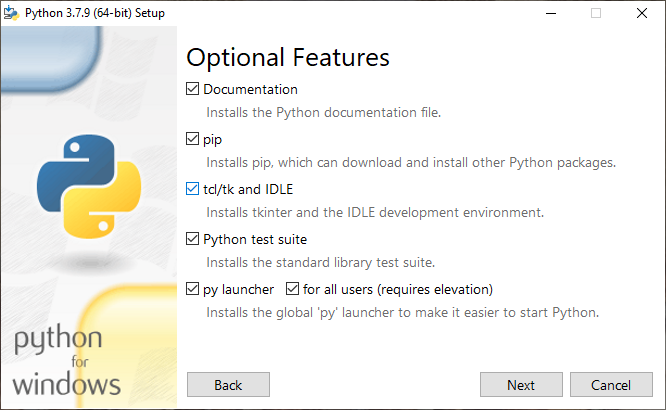
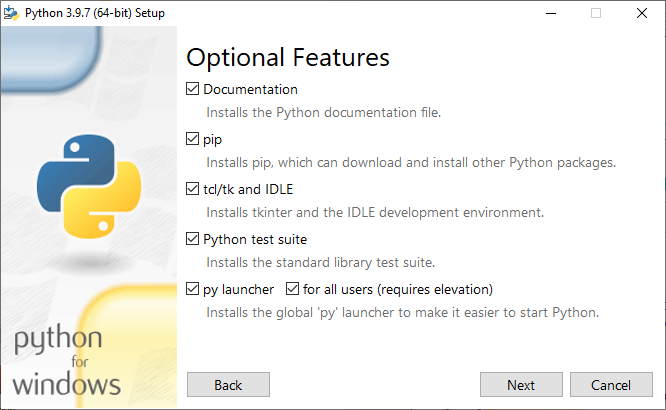
Releases 3.2.0 and 3.2.3, update python install version and CSS.

diff --git a/_static/neteye-banner.css b/_static/neteye-banner.css
@@ -79,11 +79,21 @@
     font-weight: 400;
     letter-spacing: .16px;
 }
-
 #breadcrumb-container .breadcrumb a,
-#breadcrumb-container .breadcrumb .active,
+#breadcrumb-container .breadcrumb .active {
+    color: #F4F4F4;
+}
 #breadcrumb-container .breadcrumb .breadcrumb-item::before {
     color: #F4F4F4;
+    content: ">";
+    position: relative;
+    top: -4px;
+}
+#breadcrumb-container .breadcrumb .breadcrumb-item:first-child::before {
+    content: none;
+}
+#breadcrumb-container .breadcrumb .breadcrumb-item:last-child {
+    visibility: hidden;
 }
 
 #search-banner .search-summary {

diff --git a/_static/neteye-document.css b/_static/neteye-document.css
@@ -71,8 +71,8 @@ dl, ol, ul {
 }
 
 /* Hide first h1 tag */
-#content .body > .section:first-child > h1:first-of-type {
-    margin-bottom: -48px;
+#content div.body section h1 {
+    margin-bottom: -25px;
     visibility: hidden;
     height: 0;
 }

diff --git a/conf.py b/conf.py
@@ -29,9 +29,9 @@ author = 'Charles Callaway'
 # built documents.
 #
 # The short X.Y version.
-version = u'3.1.6'
+version = u'3.2.3'
 # The full version, including alpha/beta/rc tags.
-release = u'3.1.6'
+release = u'3.2.3'
 
 
 # -- General configuration ---------------------------------------------------

diff --git a/getting_started/install.rst b/getting_started/install.rst
@@ -1,6 +1,6 @@
 :author: Charles Callaway
 :date: 06-12-2019
-:modified: 25-11-2020
+:modified: 09-11-2021
 :tags: install, python, pip
 :lang: en-US
 :translation: false
@@ -32,8 +32,8 @@ System Requirements
    Alyvix assumes that you have **one virtual or physical machine** exclusively dedicated to
    running Alyvix test cases.
 
-You should check that your designated machine meets the following requirements before you install
-Alyvix:
+You should check that your designated machine and the account on that machine meet the following
+requirements before you install Alyvix:
 
 .. admonition::  Requirements
    :class: warning
@@ -42,7 +42,28 @@ Alyvix:
    * OS: **Windows 64-bit** 10, Server 2012, 2016 or 2019
      (32-bit versions of Windows are :warn:`not` compatible with Alyvix)
    * Hardware:  2 CPUs and 4GB RAM
+   * Account with system administrator privileges
 
+|
+
+
+.. _installation_versions:
+
+========
+Versions
+========
+
++----------------+------------------------------+-------------------------------+
+| Alyvix Version | Python Version Required      | Install command               |
++----------------+------------------------------+-------------------------------+
+| Alyvix 3.2.3   | |python-download-link-397|   | ``pip install alyvix==3.2.3`` |
++----------------+------------------------------+-------------------------------+
+| Alyvix 3.2.0   | |python-download-link-397|   | ``pip install alyvix==3.2.0`` |
++----------------+------------------------------+-------------------------------+
+| Alyvix 3.1.6   | |python-download-link-379|   | ``pip install alyvix==3.1.6`` |
++----------------+------------------------------+-------------------------------+
+
+|
 
 
 .. _install_release_python_install:
@@ -60,7 +81,7 @@ Follow this procedure to install Python on your system:
 
 #. Start the installation:
 
-   1. Right-click on the downloaded executable and select **"Run as administrator"**
+   1. **Right-click** on the downloaded executable and select **"Run as administrator"**
    2. Check the box **"Add Python 3.7 to PATH"** at the bottom
    3. Choose the option **"Customize installation"**
 
@@ -76,7 +97,7 @@ Follow this procedure to install Python on your system:
       :alt: The second panel of the python installation process.
 
 #. On the third panel, make sure the advanced options are set as shown below.  Then under
-   **"Customize install location"**, insert the recommended location :file:`C:\\Python37\\`.
+   **"Customize install location"**, insert the recommended location :file:`C:\\Python39\\`.
    Finally, click on **"Install"**.  At this point Python will begin installing, typically
    requiring about 5 minutes.
 
@@ -88,10 +109,10 @@ Follow this procedure to install Python on your system:
    error message (if not, you will need to edit your ``Path`` environment variable):
 
    .. code-block:: doscon
-      :class: short-code-block
+      :class: tiny-code-block
 
       C:\> python --version
-      Python 3.7.9
+      Python 3.9.7
 
 
 
@@ -104,7 +125,7 @@ Installing Alyvix
 Alyvix itself is installed via *pip*, the official Python package manager.  *pip* will
 automatically detect that your system is running Python 3 and will install Alyvix 3,
 placing all executables in the directory
-:file:`C:\\Python37\\Lib\\site-packages\\alyvix\\`.
+:file:`C:\\Python39\\Lib\\site-packages\\alyvix\\`.
 
 The Alyvix installer is launched from the command prompt that, like the Python installer, must be
 **started in Adminstrator mode**.  Only this single step is required:
@@ -115,11 +136,18 @@ The Alyvix installer is launched from the command prompt that, like the Python i
    with all of its dependencies:
 
    .. code-block:: doscon
-      :class: short-code-block
+      :class: tiny-code-block
 
       C:\> pip install alyvix
 
-We recommend you place your Alyvix test cases in a separate data directory.
+   If necessary, you can install Alyvix through a proxy by adding a parameter:
+
+   .. code-block:: doscon
+      :class: long-code-block
+
+      C:\> pip install --proxy=https://[user:password@]proxyserver:port alyvix
+
+We recommend you place your Alyvix test cases in a separate data directory just for test cases.
 
 
 
@@ -142,13 +170,19 @@ Only two steps are needed to upgrade to the latest version:
 #. Upgrade Alyvix with *pip*
 
    * Start a Command Prompt **in administrator mode**
-   * Run the following command to download and upgrade to the latest Alyvix master release along
-     with all of its dependencies:
+   * Follow the case below that corresponds to your situation in order to download and upgrade
+     to the latest Alyvix master release along with all of its dependencies:
 
-     .. code-block:: doscon
-        :class: short-code-block
+     * If you have Python 3.7.9 installed, uninstall it, then manually remove its
+       containing folder (e.g., ``C:\Python37\``) and re-install Alyvix with *pip* as shown in
+       the section :ref:`Installing Alyvix <install_release_alyvix_install>` above.
 
-        C:\> pip install --upgrade alyvix
+     * If you have Python 3.9.7 installed, then you can use the *pip --upgrade* command:
+
+       .. code-block:: doscon
+          :class: short-code-block
+
+          C:\> pip install --upgrade alyvix
 
 
 
@@ -164,16 +198,11 @@ In order to create an offline installation, you will need two machines:
   source for downloading the required software packages
 * A second *target* machine that will serve as the offline probe
 
-Both machines must meet the second :ref:`system requirement <system_requirements_top>` above, and
-have access to removable media in order to physically transfer the software from the *installer*
-to the *target*.
-
 The following steps will then enable you to install Alyvix on the target machine:
 
 .. rst-class:: bignums
 
-#. On the *installer* Windows **64-bit** machine with an existing **Python 3** installation
-   (not Python 2):
+#. On the *installer* Windows **64-bit** machine with an existing **Python 3** installation:
 
    * Create a new directory with appropriate permissions
    * Download the |python-download-link| to that directory
@@ -184,8 +213,7 @@ The following steps will then enable you to install Alyvix on the target machine
 
         C:\...\MyFolder> pip download alyvix
 
-#. Copy the entire directory onto the removable media, then copy that directory onto the target
-   machine
+#. Copy the entire directory onto the target machine
 
 #. Use the Python installer now on the target machine to
    :ref:`install Python following the instructions above <install_release_python_install>`
@@ -196,7 +224,7 @@ The following steps will then enable you to install Alyvix on the target machine
    .. code-block:: doscon
       :class: code-block
 
-      C:\...\MyFolder> pip install alyvix-3.1.6-cp37-cp37m-win_amd64.whl --no-index --find-links .
+      C:\...\MyFolder> pip install alyvix-3.2.0-cp39-cp39-win_amd64.whl --no-index --find-links .
 
 #. Check that the installation was successful by starting Alyvix Editor:
 
@@ -230,7 +258,7 @@ If you only use Python to run Alyvix, you can now also remove Python itself.  Go
 :file:`Python Launcher`.  The process may take up to 5 minutes.
 
 
-Once completed, you can also manually remove the :file:`C:\\Python37\\` directory (or whichever
+Once completed, you can also manually remove the :file:`C:\\Python39\\` directory (or whichever
 directory you specified during installation) and either archive or delete your test case
 directory.
 
@@ -266,7 +294,7 @@ Below are some potential installation problems and their solutions.
    .. code-block:: doscon
       :class: nocopy
 
-      File "C:\Python37\lib\site-packages\alyvix\core\tesserocr\__init__.py", line 1, in <module> from ._tesserocr import *
+      File "C:\Python39\lib\site-packages\alyvix\core\tesserocr\__init__.py", line 1, in <module> from ._tesserocr import *
       ImportError: DLL load failed: The specified module could not be found.
 
    You can fix this problem by installing the **Microsoft Visual C++ Redistributable for Visual Studio**,

diff --git a/release_notes/release_notes_32.rst b/release_notes/release_notes_32.rst
@@ -1,0 +1,72 @@
+:author: Charles Callaway
+:date: 09-11-2021
+:modified: 02-02-2022
+:tags: release notes
+:lang: en-US
+:translation: false
+:status: updating
+
+.. include:: ../sphinx-roles.txt
+
+
+
+.. _release_notes_v3_2_0:
+
+===============================
+Version 3.2.0 - 3.2.3 (Current)
+===============================
+
+Alyvix is an open source APM software tool for visual monitoring. If your machine matches the
+system requirements for Alyvix, you can :ref:`install or upgrade it <getting_started_top>`.
+
+:ref:`Python 3.9.7 64-bit official distribution <install_release_python_install>` is the recommended
+Python version to power Alyvix 3.2.x.
+
+|
+
+
+.. _install_release_v3_2_3:
+
+.. rubric:: Version 3.2.3
+
+**Release date:**  February 2nd, 2022
+
+**Improvements**
+
+* :iconlink:`pivotal|Pivotal Tracker Issue #178573058|178573058` |mdash|
+  Add new map rows with new sequential keys
+
+**Bug Fixes**
+
+* :iconlink:`pivotal|Pivotal Tracker Issue #178586988|178586988` |mdash|
+  Rename objects (after adding, duplicating or importing them) without breaking others
+* :iconlink:`pivotal|Pivotal Tracker Issue #180840734|180840734` |mdash|
+  Fix a crash in Editor when returning from a test case run
+* :iconlink:`pivotal|Pivotal Tracker Issue #178573058|178573058` |mdash|
+  Retain maps without saving the entire test case just to do that
+* :iconlink:`pivotal|Pivotal Tracker Issue #178626207|178626207` |mdash|
+  Retain (dis)appear settings without saving the entire test case just to do that
+* :iconlink:`pivotal|Pivotal Tracker Issue #178629938|178629938` |mdash|
+  Don't allow sections and maps to be nameless
+
+|
+
+
+.. _install_release_v3_2_0:
+
+.. rubric:: Version 3.2.0
+
+**Release date:**  November 9th, 2021
+
+**Improvements**
+
+* :iconlink:`pivotal|Pivotal Tracker Issue #178625613|178625613` |mdash|
+  Alyvix and its dependencies are now aligned with Python version 3.9.7
+
+**Bug Fixes**
+
+* :iconlink:`pivotal|Pivotal Tracker Issue #178470580|178470580` |mdash|
+  One or more **warning** transactions are no longer enough by themselves to cause Alyvix to
+  report a test case failure
+
+|

diff --git a/release_notes.rst b/release_notes.rst
@@ -1,6 +1,6 @@
 :author: Charles Callaway
 :date: 04-12-2019
-:modified: 08-06-2020
+:modified: 02-02-2022
 :tags: release notes
 :lang: en-US
 :translation: false
@@ -30,7 +30,8 @@ Alyvix release follows the :iconlink:`ext|Semantic Versioning|https://semver.org
 
 Current and past releases:
 
-* :ref:`Version 3.1.x <release_notes_v3_1_0>` June 26th, 2020 - April 28th, 2021 (Current)
+* :ref:`Version 3.2.x <release_notes_v3_2_0>` November 9th, 2021 - February 2, 2022 (Current)
+* :ref:`Version 3.1.x <release_notes_v3_1_0>` June 26th, 2020 - April 28th, 2021
 * :ref:`Version 3.0.x <release_notes_v3_0_0>` February 3rd, 2020 - March 25th, 2020
 
 |
@@ -46,5 +47,6 @@ Current and past releases:
 .. toctree::
    :name: toc_release_notes
 
+   release_notes/release_notes_32.rst
    release_notes/release_notes_31.rst
    release_notes/release_notes_30.rst

diff --git a/test_case_building/designer_component_options.rst b/test_case_building/designer_component_options.rst
@@ -176,7 +176,7 @@ one of these 3 methods:
     regular expression in the :guilabel:`Regex` field, once normalized as lower cased strings.
     (An Operations tutorial video is available that :ref:`explains the regex options
     <operations_tutorials_regex>`).  The regular expression syntax is governed by the
-    :iconlink:`ext|Python Regular Expression library|https://docs.python.org/3.7/library/re.html`.
+    :iconlink:`ext|Python Regular Expression library|https://docs.python.org/3.9/library/re.html`.
 
     A green background color in the Regex field indicates the regex matches the scraped text, red
     means it does not match, and yellow indicates a syntactically well-formed special construct

diff --git a/release_notes/release_notes_31.rst b/release_notes/release_notes_31.rst
@@ -4,7 +4,7 @@
 :tags: release notes
 :lang: en-US
 :translation: false
-:status: updating
+:status: final
 
 .. include:: ../sphinx-roles.txt
 
@@ -12,9 +12,9 @@
 
 .. _release_notes_v3_1_0:
 
-===============================
-Version 3.1.0 - 3.1.6 (Current)
-===============================
+=====================
+Version 3.1.0 - 3.1.6
+=====================
 
 Alyvix is an open source APM software tool for visual monitoring. If your machine matches the
 system requirements for Alyvix, you can :ref:`install or upgrade it <getting_started_top>`.

diff --git a/introduction.rst b/introduction.rst
@@ -18,7 +18,7 @@ Alyvix and Visual Monitoring
 
 |
 
-Welcome to the official guide for **Alyvix 3.1.6**
+Welcome to the official guide for **Alyvix 3.2.3**
 :iconlink:`video||videos_and_tutorials/basic_concept_tutorials.html#basic-concepts-tutorials-310-intro`
 (the documentation for version 2 of Alyvix `can be found here <https://www.alyvix.com/v2/learn/>`_).
 
